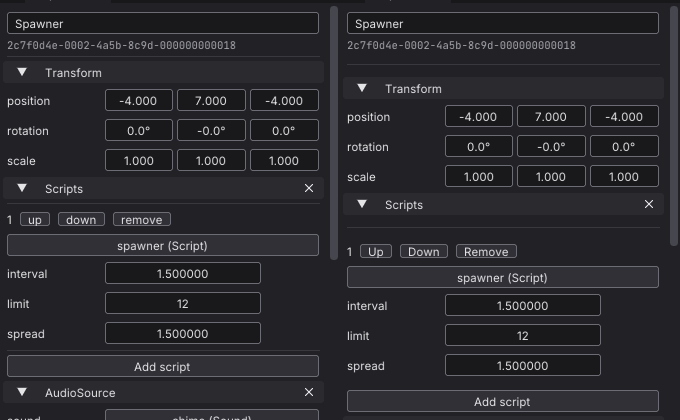
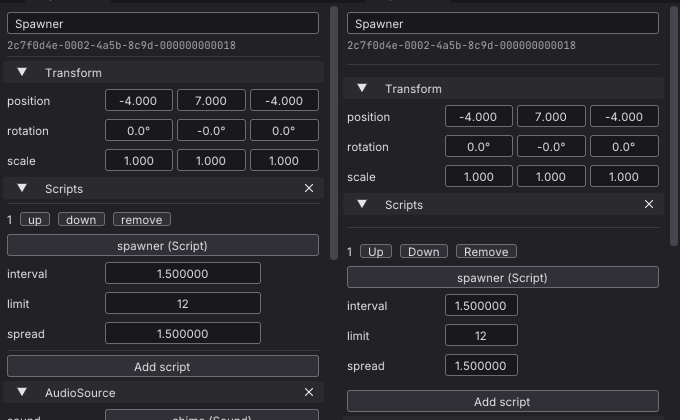
docs(editor): recapture the inspector for Apply and Revert (#581)
## What changed

- `docs/reports/editor-ui-widgets/inspector-script-crop.png`: the after
half is retaken at d0cc300. Since PR #566, the script's property table
ends in the 9.5 em action column, so its value fields are narrower. The
before half (49cf96e) is pixel-identical to the old one.
- `docs/reports/editor-ui-widgets/inspector-prefab-instance-crop.png`
(new): `--select "Pallet/Crate A/Lid"`. The playground's pallet instance
changes that lid's colour, so its colour row shows the Apply and Revert
pair.
- `tools/capture_editor_panels.py` (new): runs every capture of the
report and crops it with the geometry the #485 crops used. That geometry
was recovered by locating those crops in the #485 window captures: the
inspector is 340x420 at (1260, 40), and the Log and Assets are the
bottom 1600x200. With `--before DIR`, it composes the before/after
pairs. Re-running it after #549 (split Apply button) is one command.
- `docs/reports/editor-ui-widgets.md`: recapture status, a note on the
action column in the script section, a new "changed prefab instance"
section, and a "Recapturing" section with the recipe.

## Finding

In the default 340 px inspector, the action column squeezes a changed
colour row: the four channels are too narrow to show their values (see
the new capture). The mesh and material pickers of a changed component
are also narrower. This PR only documents it; it may deserve its own
issue (for example, a narrower action column or wrapping the colour
editor).
[…]

Changed region(s): [[0.6794, 0.8357, 0.8338, 0.8976], [0.6794, 0.7119, 0.8956, 0.7738], [0.7412, 0.7738, 0.7721, 0.8048]]

diff --git a/tools/capture_editor_panels.py b/tools/capture_editor_panels.py
@@ -1,0 +1,86 @@
+#!/usr/bin/env python3
+"""Capture the editor's panels for docs/reports/editor-ui-widgets.md.
+
+Each capture is one `--screenshot-window` run of the editor on the basic sample's playground scene, at the
+default 1600x900 window a capture run opens, cropped to the panel it shows. The run opens a real window, so it
+needs a desktop (X11 here: DISPLAY=:1); on this machine hold the desktop lock while it runs:
+
+    flock ~/sonnet-measurements/.desktop.lock python3 tools/capture_editor_panels.py \
+        --out ~/sonnet-measurements/572-inspector-captures/after
+
+The window captures and their logs go to `--out`, and the crops to `--out`/crops. With `--before DIR`, a
+directory an earlier run of this script wrote, each crop is the earlier one and this one side by side (the
+inspector) or one above the other (the wide panels), before first, as the report shows them; the captures that
+DIR does not have are cropped alone. Copy the crops the report uses into docs/reports/editor-ui-widgets/.
+
+Needs Pillow.
+"""
+
+import argparse
+import os
+import subprocess
+import sys
+from pathlib import Path
+
+from PIL import Image
+
+ROOT = Path(__file__).resolve().parent.parent
+SCENE = ["apps/samples/basic", "--scene", "scenes/playground.scene.json"]
+
+# name: (editor flags, crop box (left, top, width, height) in the 1600x900 window, how a pair is laid out)
+INSPECTOR = (1260, 40, 340, 420)
+BOTTOM = (0, 700, 1600, 200)
+CAPTURES = {
+    "inspector": (["--select", "Ball"], INSPECTOR, "side"),
+    "inspector-script": (["--select", "Spawner"], INSPECTOR, "side"),
+    "inspector-prefab-instance": (["--select", "Pallet/Crate A/Lid"], INSPECTOR, "side"),
+    "log": (["--select", "Ball", "--front", "log"], BOTTOM, "stack"),
+    "assets": (["--assets", "grid"], BOTTOM, "stack"),
+}
+
+
+def crop(path: Path, box: tuple[int, int, int, int]) -> Image.Image:
+    left, top, width, height = box
+    return Image.open(path).convert("RGBA").crop((left, top, left + width, top + height))
+
+
+def main() -> int:
+    parser = argparse.ArgumentParser(description=__doc__, formatter_class=argparse.RawDescriptionHelpFormatter)
+    parser.add_argument("--editor", type=Path, default=ROOT / "build/linux-debug/apps/editor/sonnet_editor")
+    parser.add_argument("--out", type=Path, required=True, help="directory for the window captures and logs")
+    parser.add_argument("--before", type=Path, help="an earlier --out to put beside each crop")
+    parser.add_argument("--only", nargs="+", choices=sorted(CAPTURES), help="capture only these")
+    args = parser.parse_args()
+
+    out = args.out.resolve()
+    (out / "crops").mkdir(parents=True, exist_ok=True)
+    env = dict(os.environ)
+    env.setdefault("DISPLAY", ":1")
+    failed = False
+    for name in args.only or CAPTURES:
+        flags, box, layout = CAPTURES[name]
+        window = out / f"{name}.png"
+        command = [str(args.editor.resolve()), *SCENE, *flags, "--screenshot-window", str(window)]
+        with open(out / f"{name}.log", "w") as log:
+            result = subprocess.run(command, cwd=ROOT, env=env, stdout=log, stderr=subprocess.STDOUT)
+        if result.returncode != 0:
+            print(f"{name}: the editor exited with {result.returncode}, see {out / name}.log", file=sys.stderr)
+            failed = True
+            continue
+        after = crop(window, box)
+        earlier = args.before.resolve() / f"{name}.png" if args.before else None
+        if earlier is not None and earlier.exists():
+            before = crop(earlier, box)
+            width, height = box[2], box[3]
+            size = (2 * width, height) if layout == "side" else (width, 2 * height)
+            pair = Image.new("RGBA", size)
+            pair.paste(before, (0, 0))
+            pair.paste(after, (width, 0) if layout == "side" else (0, height))
+            after = pair
+        after.save(out / "crops" / f"{name}-crop.png", optimize=True)
+        print(out / "crops" / f"{name}-crop.png")
+    return 1 if failed else 0
+
+
+if __name__ == "__main__":
+    sys.exit(main())

diff --git a/docs/reports/editor-ui-widgets.md b/docs/reports/editor-ui-widgets.md
@@ -1,8 +1,8 @@
 # The editor's panels on the ui widgets: before and after
 
-[Issue 485](https://github.com/Pacheco95/sonnet/issues/485). Status: captured on 2026-11-06 on Linux (X11, scale 1, RTX 4090, `linux-debug`), before at 49cf96e and after on the branch that moves the panels onto the widgets of `sonnet/ui/Widgets.h`. The widgets and their tokens are in [editor.md](../editor.md#widgets).
+[Issue 485](https://github.com/Pacheco95/sonnet/issues/485). Status: captured on 2026-11-06 on Linux (X11, scale 1, RTX 4090, `linux-debug`), before at 49cf96e and after on the branch that moves the panels onto the widgets of `sonnet/ui/Widgets.h`. Recaptured on 2026-11-16 at d0cc300 ([issue 572](https://github.com/Pacheco95/sonnet/issues/572)), after [PR 566](https://github.com/Pacheco95/sonnet/pull/566) gave the property tables a column for the Apply and Revert buttons: the script's after half is new, and so is the capture of a changed prefab instance. The other captures were taken again and had not changed (the Log differed only in its timestamps and source lines). The widgets and their tokens are in [editor.md](../editor.md#widgets).
 
-Every capture is a `--screenshot-window` run of the editor ([Screenshots](../editor.md#screenshots)) on `apps/samples/basic --scene scenes/playground.scene.json`, cropped to the panel that changed. Before is on the left or on top. The colours and sizes of the theme did not change; what moved is listed under each capture, and each change is intended.
+Every capture is a `--screenshot-window` run of the editor ([Screenshots](../editor.md#screenshots)) on `apps/samples/basic --scene scenes/playground.scene.json`, cropped to the panel that changed. Before is on the left or on top. [Recapturing](#recapturing) has the script that takes them. The colours and sizes of the theme did not change; what moved is listed under each capture, and each change is intended.
 
 ## Inspector, an entity with a script
 
@@ -13,6 +13,7 @@ Every capture is a `--screenshot-window` run of the editor ([Screenshots](../edi
 - The breaks between the entity's header and its components, and between script slots, are `ui::sectionBreak`: the theme's `sectionGap` (4 px) above and below the separator, where the separator had only the item spacing.
 - The slot's row actions are `ui::rowButton` with sentence-case labels: Up, Down, Remove.
 - "Add script" sits `groupGap` (4 px) below the last slot (`ui::groupBreak`) instead of under a separator.
+- Since PR 566 the script's property table ends in an action column, `propertyActionWidth` (9.5 em) wide, for a row's Apply and Revert buttons, so the value fields are narrower than they were at #485. The column is there whether or not a row has buttons.
 
 ## Inspector, components
 
@@ -21,6 +22,16 @@ Every capture is a `--screenshot-window` run of the editor ([Screenshots](../edi
 ![Inspector components, before and after](editor-ui-widgets/inspector-crop.png)
 
 The component headers are `ui::sectionHeader`, drawn as before; only the break above the first one moved, as above.
+
+## Inspector, a changed prefab instance
+
+`--select "Pallet/Crate A/Lid"`
+
+![Inspector of a prefab instance with a changed colour](editor-ui-widgets/inspector-prefab-instance-crop.png)
+
+The playground's pallet instance changes the colour of one crate's lid. The lid's MeshRenderer is therefore marked changed, and its colour row has the Apply and Revert pair in the action column (PR 566): Apply writes the value into the crate prefab, and Revert restores the prefab's value. The component's own "Revert to prefab" and "Apply to Crate" stay under its header. This capture has no before, because the pair is new.
+
+In the default 340 px inspector, the action column leaves the colour's four channels too narrow to show their values. The mesh and material pickers are also narrower than on the rows of a component with no override.
 
 ## Log
 
@@ -42,3 +53,15 @@ No visible change: the filter (wide, 11.5 em) and the tile size (narrow, 5.5 em)
 ## Not captured
 
 The Hierarchy's dimmed ancestors show only while filtering, which a capture run cannot type, and a model's Animations tab and the rename and delete modals need a selection or a dialog the capture flags do not offer. Those paths are covered by `ui_tests` (the widgets) and `editor_tests` (the inspector driver's clip and event rows).
+
+## Recapturing
+
+`tools/capture_editor_panels.py` runs every capture above at the default 1600x900 window of a capture run, and crops it. The inspector crop is 340 by 420 px at (1260, 40); the Log and Assets crops are the bottom 200 px of the window. The script needs a desktop, since `--screenshot-window` opens a real window. On this machine that is X11 on `DISPLAY=:1`, under the desktop lock:
+
+```bash
+flock ~/sonnet-measurements/.desktop.lock python3 tools/capture_editor_panels.py \
+  --out ~/sonnet-measurements/572-inspector-captures/after \
+  --before ~/sonnet-measurements/485-ui-widgets/before
+```
+
+`--before` takes the window captures of an earlier run and puts each crop beside (or above) the new one, as the report shows them. `--only` takes a subset of the capture names, and `--editor` another build. The run writes the windows, their logs and a `crops/` directory; copy the crops into this folder by hand.
